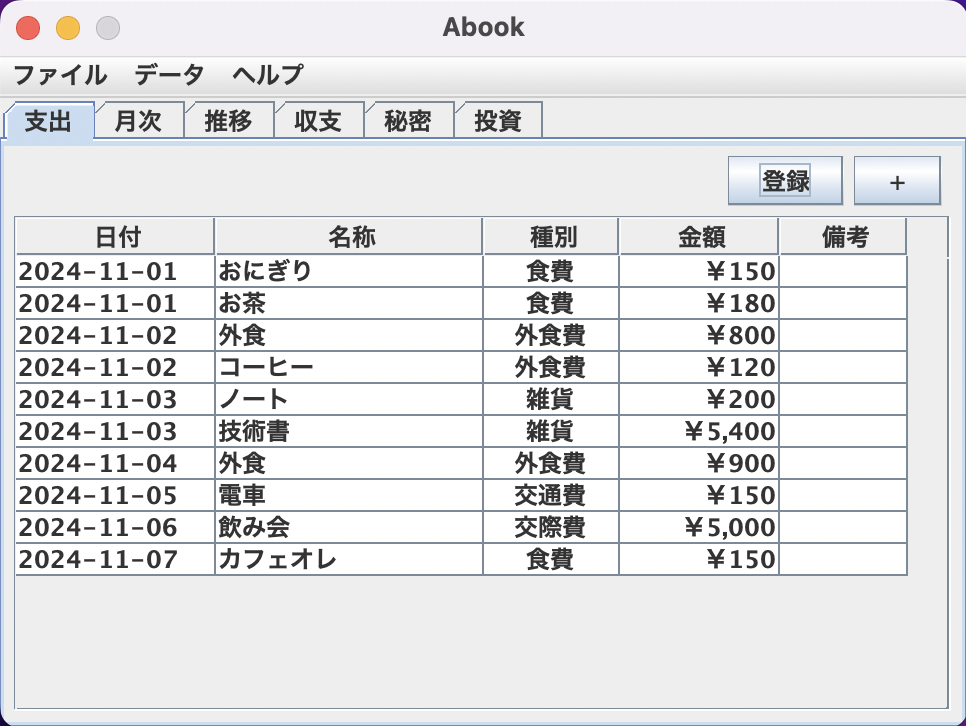
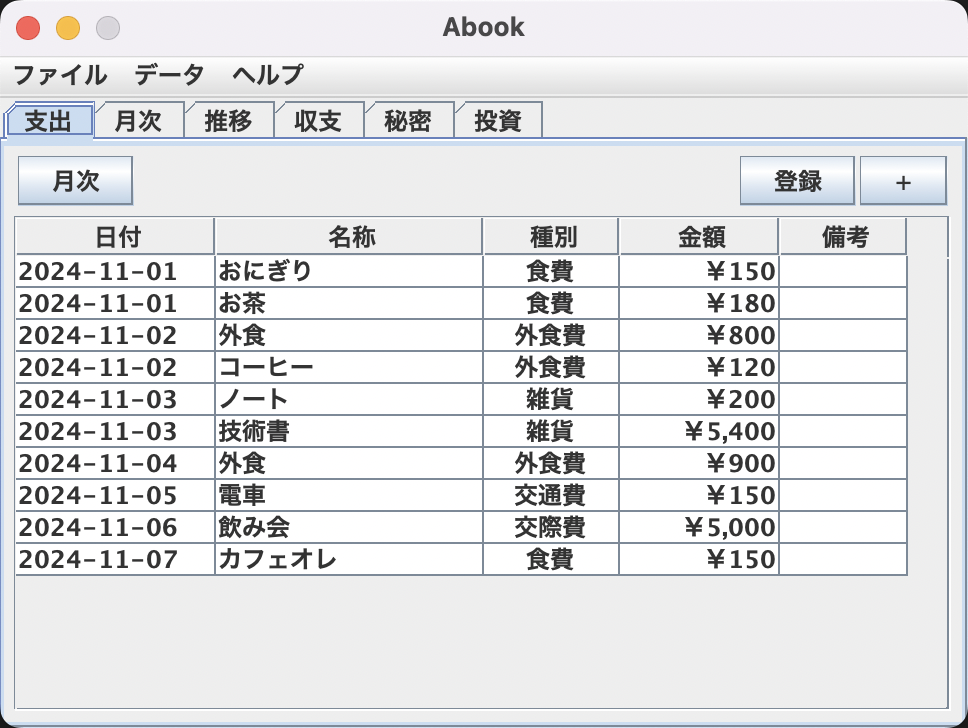
REL:Jbook(v6.2.1)

diff --git a/source/stylesheets/all.css.scss b/source/stylesheets/all.css.scss
@@ -683,6 +683,28 @@ table.private-check-error {
   }
 }
 
+table.finance {
+  width: 100%;
+  border: 1px solid #000000;
+  border-collapse: collapse;
+  margin-bottom: 10px;
+  th {
+    border: 1px solid #000000;
+    text-align: left;
+    background-color: $table-th-color;
+  }
+  th.no {
+    width: 30px;
+    text-align: center;
+  }
+  td {
+    border: 1px dotted #000000;
+  }
+  td.no {
+    text-align: center;
+  }
+}
+
 table.subform-type-combo {
   width: 46%;
   margin-top: 10px;

diff --git a/helper/abdock.rb b/helper/abdock.rb
@@ -83,6 +83,7 @@ module AbDockHelpers
   def cEXP_TYPE_TAB_SUM; data.term.EXPENSE_TYPE.TAB_SUM end
   def cEXP_TYPE_BLN_ERN; data.term.EXPENSE_TYPE.BLN_ERN end
   def cEXP_TYPE_BLN_EXP; data.term.EXPENSE_TYPE.BLN_EXP end
+  def cEXP_TYPE_MONTHLY; data.term.EXPENSE_TYPE.MONTHLY end
   # CHAR
   def cMARU; data.term.CHAR.MARU end
   def cBATU; data.term.CHAR.BATU end
